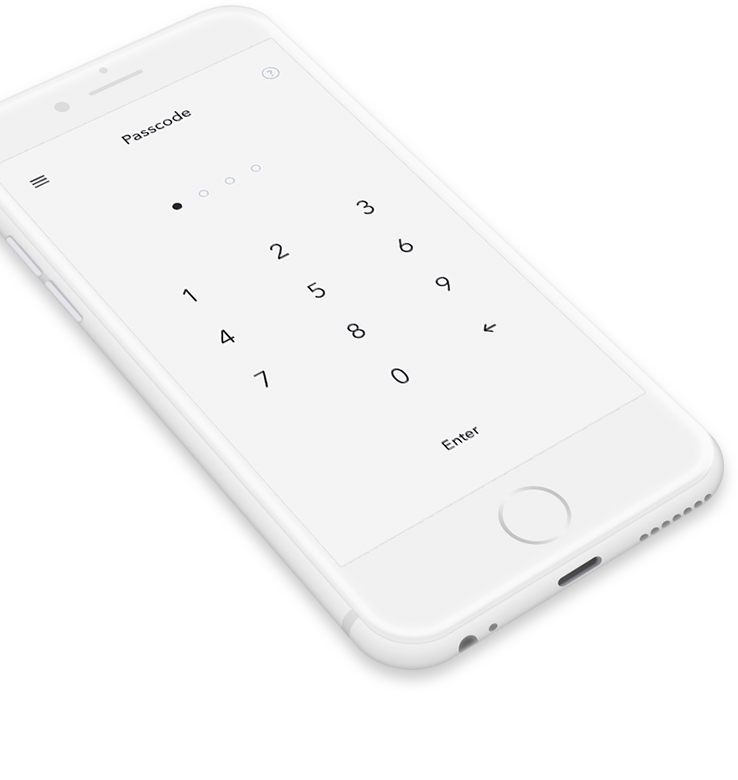
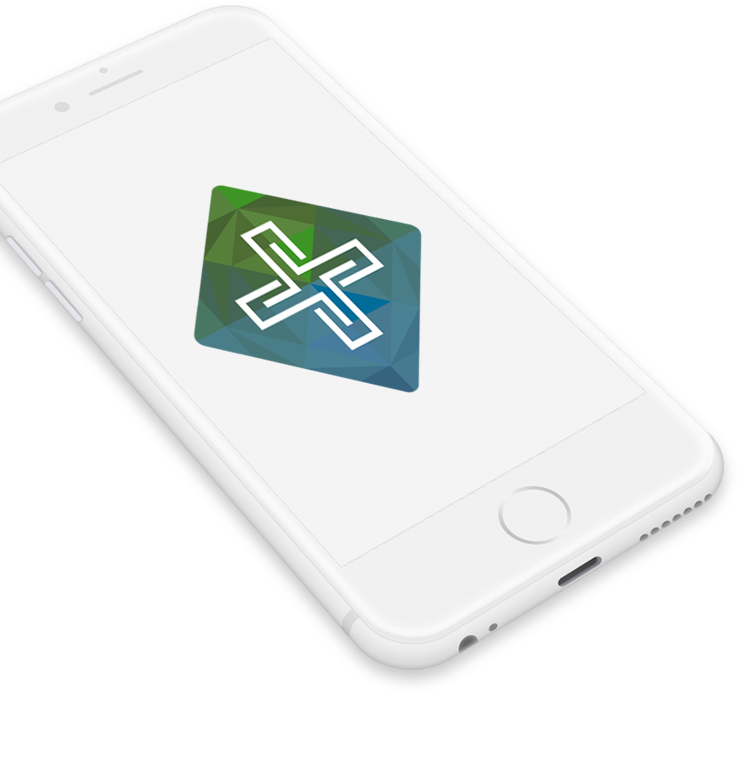
Cambios nuevos

diff --git a/index.html b/index.html
@@ -347,7 +347,7 @@
         </div>
         <div class="section nomargin noborder" id="heading-block-1" style="background: url('images/3.jpg') no-repeat top center; background-size: cover; padding: 80px 0 70px;">
             <div class="container clearfix">
-                <div class="row clearfix">
+                <div class="row clearfix" style="margin-bottom: 130px">
                     <div class="col-lg-5">
                         <div class="heading-block topmargin" style="margin-bottom: 0 !important;">
                             <h2>Encontrar tu identidad Digital, nunca fue tan fácil.</h2>
@@ -358,13 +358,10 @@
                             <span>Nosotros</span>
                         </a>
                     </div>
-                    <div class="col-lg-7 bottommargin">
-                        <div style="position: relative; margin-bottom: -50px;" class="ohidden" data-height-xl="426" data-height-lg="567" data-height-md="470" data-height-md="287" data-height-xs="183">
-                            <img src="images/PG/MARKETING.png" style="position: absolute; top: 0; left: 0;" data-animate="fadeInUp" data-delay="100" alt="CreativosPlus">
-                        </div>
+                    <div class="col-lg-7">
+                        <img src="images/iphone-3d.png" style="height: 520px; position: absolute; top: 0; left: 0;" data-animate="fadeInUp" data-delay="100" alt="CreativosPlus">
                     </div>
                 </div>
-                <div class="line topmargin-lg"></div>
                 <div class="row">
                     <div class="col-lg-3 col-sm-6">
                         <div class="feature-box fbox-center fbox-effect">
